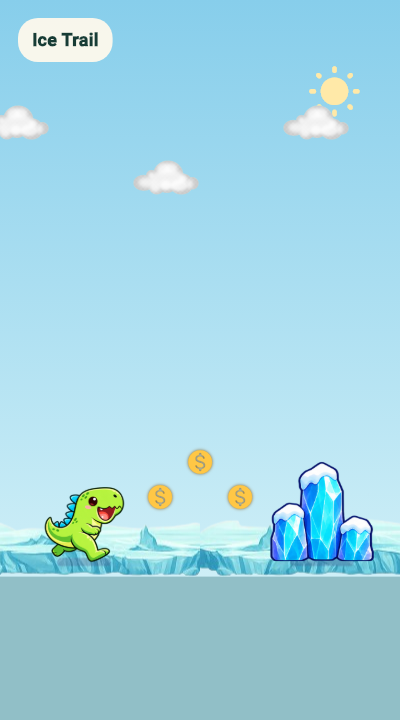
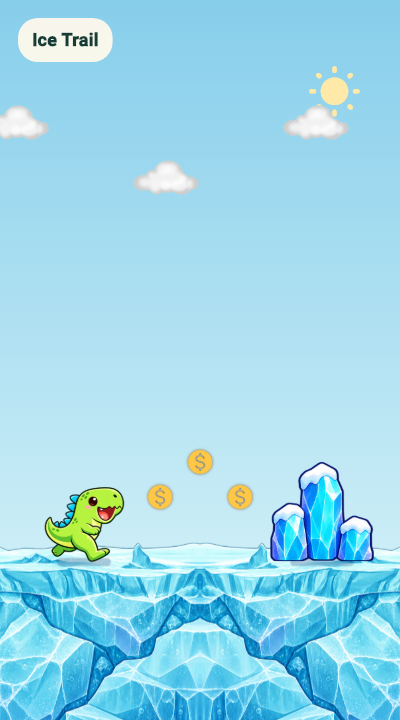
test: verify full-depth ice alignment and Android packaging

Changed region(s): [[0.0, 0.7333, 1.0, 1.0]]

diff --git a/docs/VALIDATION.md b/docs/VALIDATION.md
@@ -1,5 +1,27 @@
 # Validation record
 
+## November 1, 2026 — continuous textured ice ground (1.4.4+12)
+
+- Extended the ice surface through the entire visible underside using one new
+  full-depth frozen tile; removed the former short ice image and flat blue fill
+  from current rendering/bundling. Grass/mud, stone, approved home, obstacles,
+  animations, physics and rewards are preserved.
+- New 1254×1254 RGBA artwork uses the original ice for material reference and
+  the approved stone image for composition/depth. Selected file, prompts, source
+  roles and measured placement are documented in HOME_EXPERIENCE.md.
+- The targeted Ice Trail render/alignment check passed, and its real Flutter
+  capture was inspected through the full viewport including the repeat edge.
+  The textured underside covers the viewport; no flat blue panel is visible.
+- All 65 tests passed; analysis and formatting clean. Android debug APK built;
+  native compatibility and official 16 KB zipalign passed. ZIP inspection confirms
+  both deep terrain assets, home and obstacle atlases are included, while the
+  former ice strip and two gameplay landscapes are excluded.
+- Package metadata confirms 1.4.4 / versionCode 12, minimum API 24 and target 36.
+  README references resolve. The phone remains disconnected, so the APK is ready
+  but this version was not installed or physically tested. Gradle was stopped;
+  no Android Studio/emulator was used.
+- Art commit: `6a0c857`; implementation commit: `446750e`.
+
 ## November 1, 2026 — classic scenery and continuous stone ground (1.4.3+11)
 
 - Owner confirmed restoring the original scrolling ground strips and removing
